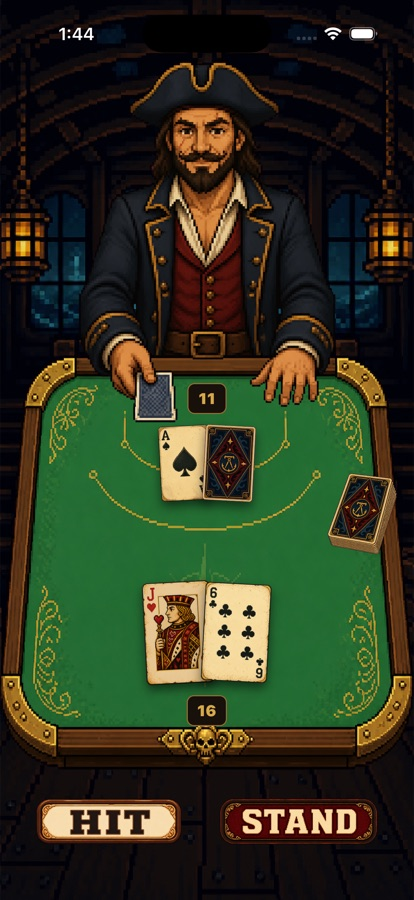
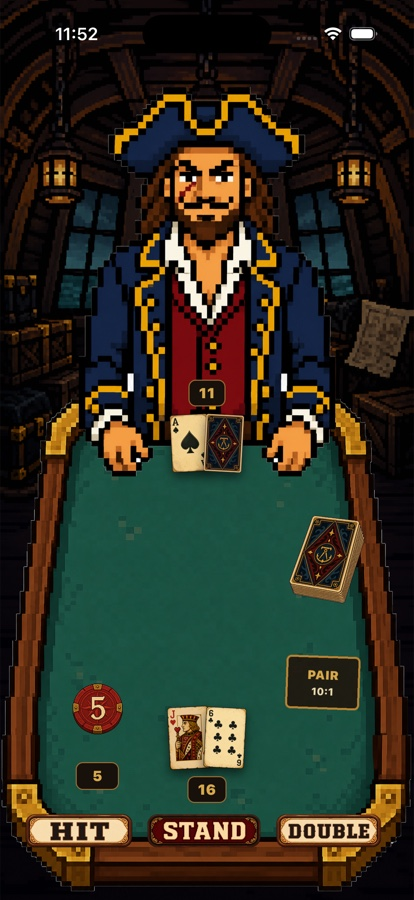
Refresh Blackwake 21 beta catalog preview

diff --git a/catalog.js b/catalog.js
@@ -175,10 +175,10 @@ window.APP_CATALOG = [
     id: "blackwake-21",
     name: "Blackwake 21",
     category: "Card game",
-    description: "Play quick rounds of blackjack against Captain Finn in the storm-lit gaming hold of the Gilded Wake.",
+    description: "Play quick rounds of blackjack against a sharp-eyed pirate dealer in a storm-lit gaming hold.",
     icon: "/assets/icons/blackwake-21.webp",
     screenshot: "/assets/screenshots/blackwake-21.jpg",
-    screenshotAlt: "Blackwake 21 pirate blackjack table with Captain Finn, player cards, totals, and hit and stand actions",
+    screenshotAlt: "Blackwake 21 pixel-art pirate blackjack table with dealer, player cards, totals, and hit, stand, and double actions",
     status: "coming",
     statusLabel: "Coming soon",
     accent: "rose",

diff --git a/index.html b/index.html
@@ -72,7 +72,7 @@
             <small>From the studio notebook</small>
             <strong><span data-total-count>19</span> apps in our workshop.</strong>
             Release updates coming soon.<br />
-            <em>Store status checked August 17, 2026.</em>
+            <em>Store status checked August 18, 2026.</em>
           </p>
         </div>
       </section>
@@ -100,7 +100,7 @@
       <button class="dialog-done" type="button">Done</button>
     </dialog>
 
-    <script src="/catalog.js?v=20260817.2"></script>
+    <script src="/catalog.js?v=20260818.1"></script>
     <script src="/app.js?v=20260815.4"></script>
   </body>
 </html>
